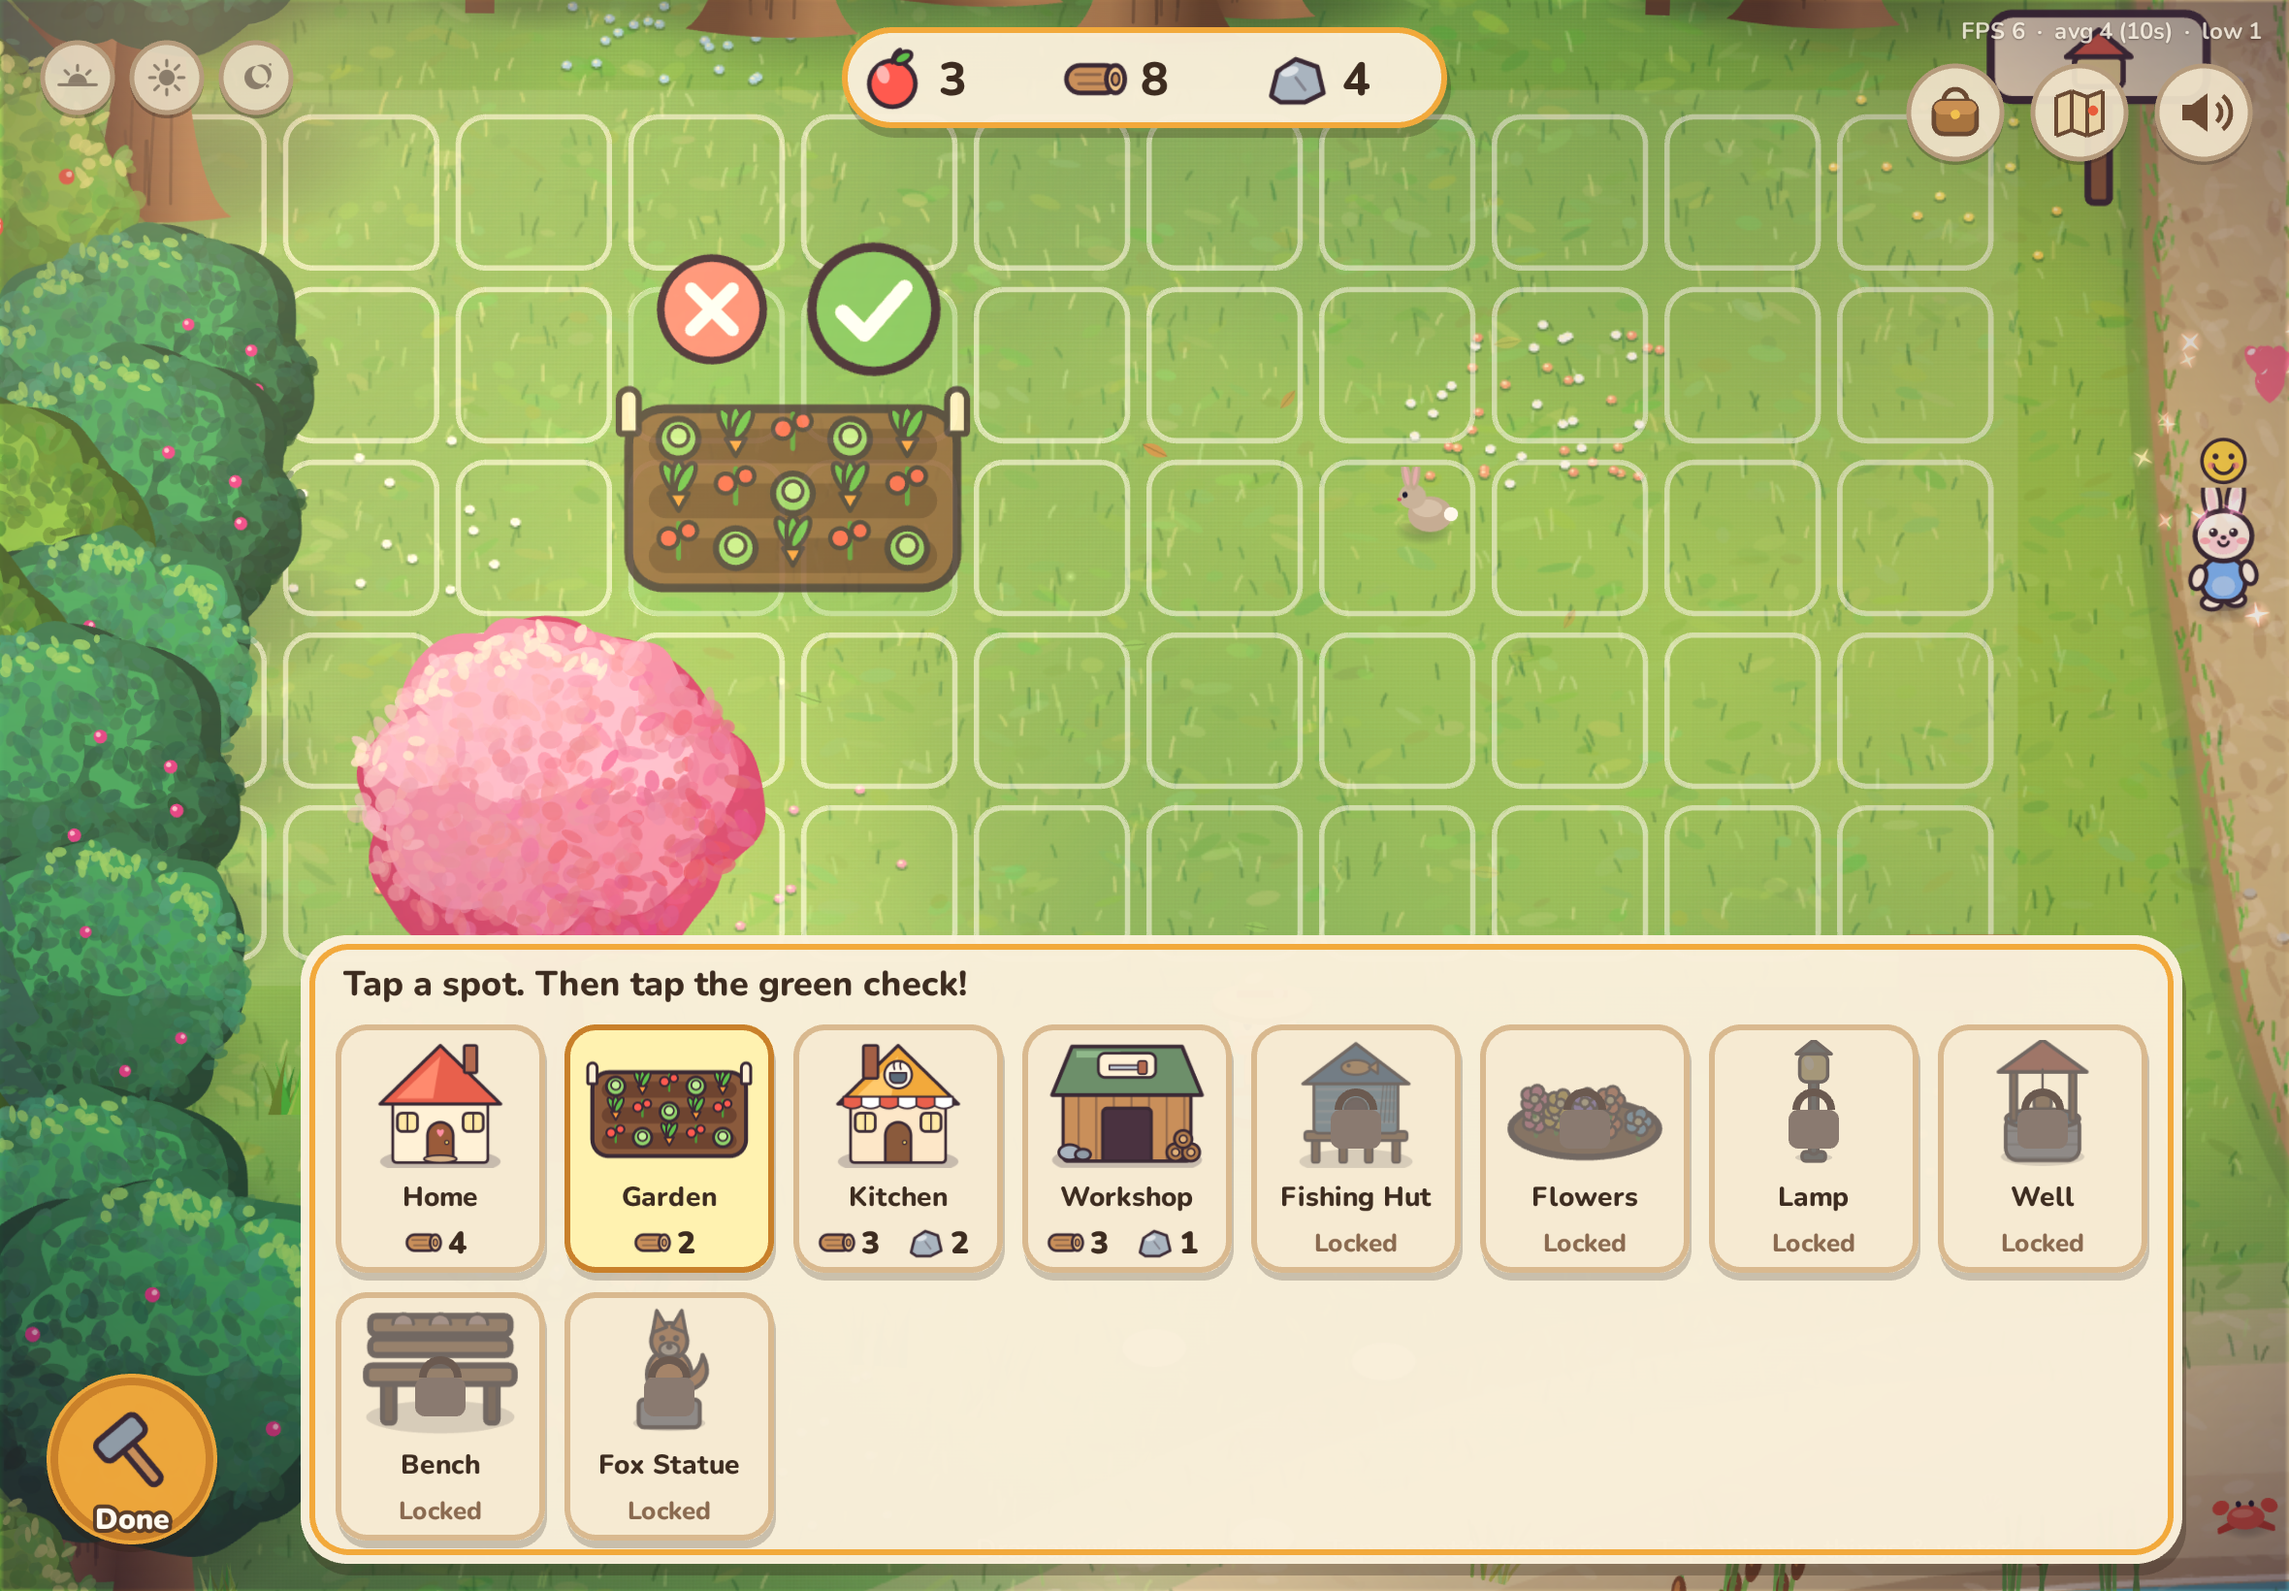
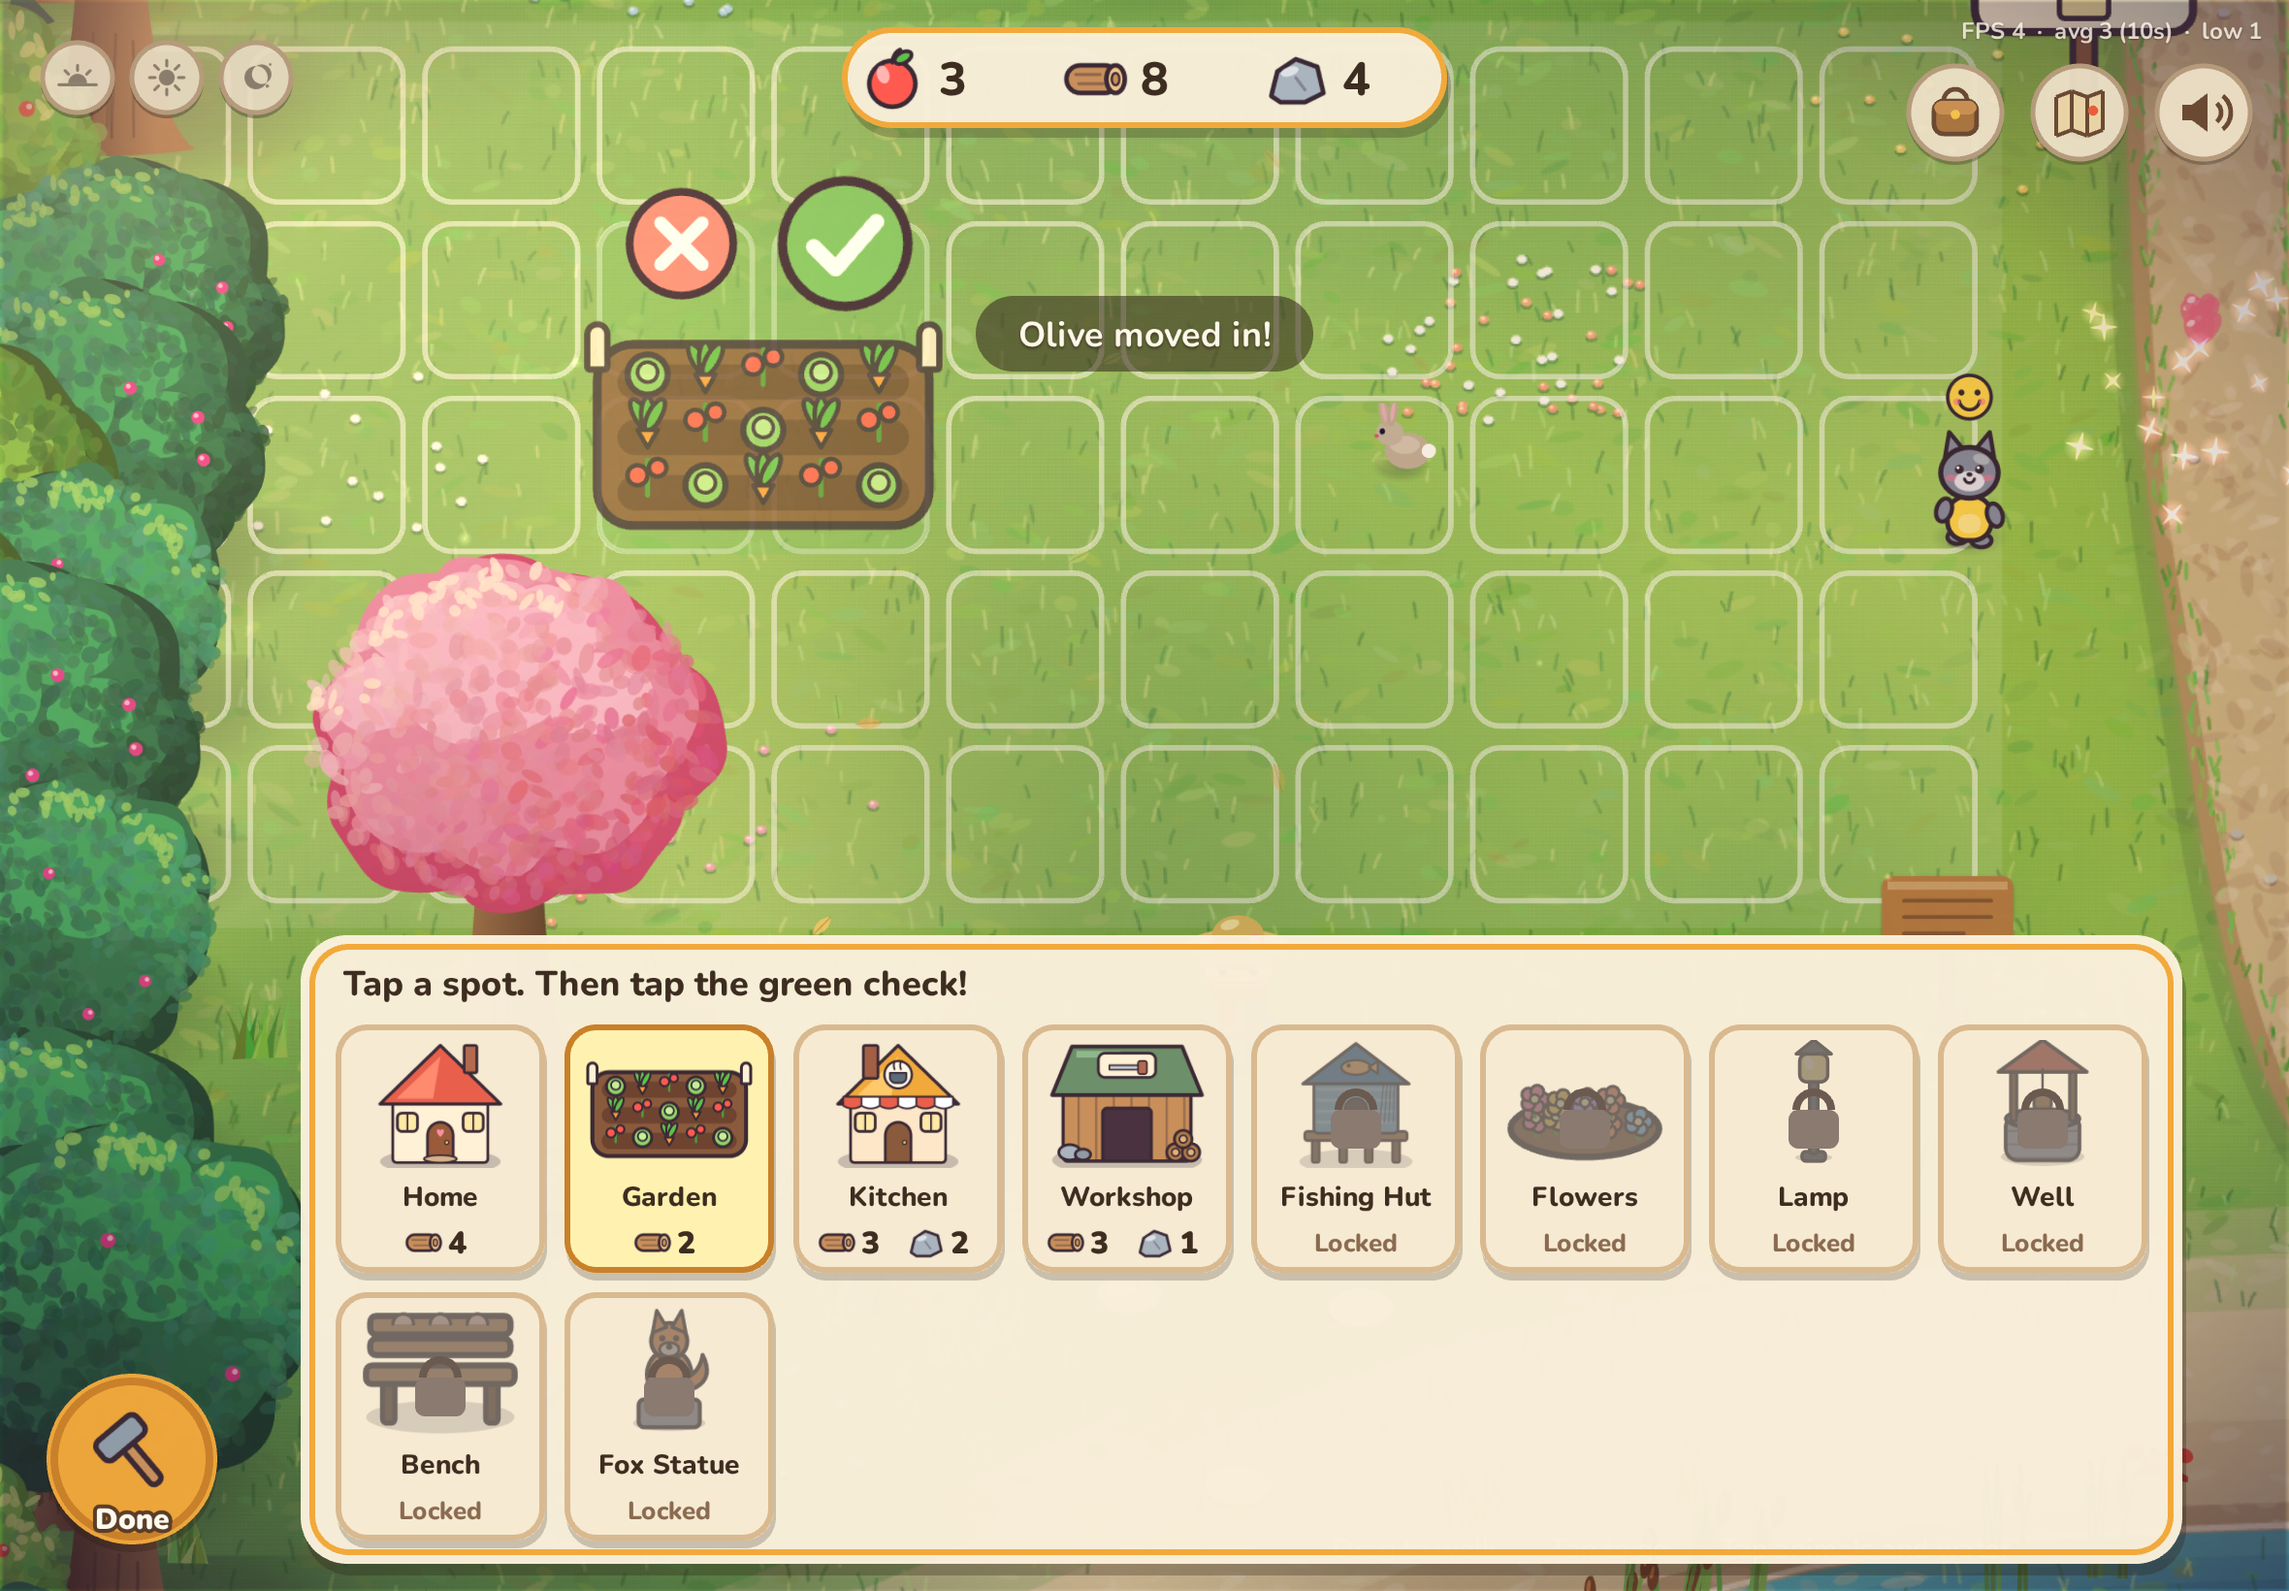
v0.5: gentler alerts (only when friends can't help themselves); test covers bubbles, undo, alerts, fruit + feeding; README

diff --git a/tests/village.spec.ts b/tests/village.spec.ts
@@ -87,8 +87,21 @@ test('village: invite, build, assign a job, resources, theme toggle', async ({ p
   await expect.poll(async () => (await village(page)).building, { timeout: 30_000 }).toBe(false);
   await page.waitForTimeout(2500);
 
-  // 3. Drag the villager onto the garden to make them the gardener.
   const garden = (await village(page)).buildings.find((b: any) => b.type === 'garden');
+  // 2b. An idle friend gets a job bubble. One tap takes the job; Undo puts it back.
+  await expect.poll(async () => (await village(page)).villagers[0].bubble, { timeout: 120_000, intervals: [500] }).toBeTruthy();
+  for (let i = 0; i < 5 && (await village(page)).villagers[0].job === null; i++) {
+    const b = (await village(page)).villagers[0].bubble;
+    if (!b) break;
+    await tapWorld(page, b[0], b[1]);
+    await page.waitForTimeout(1200);
+  }
+  await expect.poll(async () => (await village(page)).villagers[0].job, { timeout: 30_000 }).toBe(garden.id);
+  await tapRect(page, await waitRect(page, 'undo'));
+  await expect.poll(async () => (await village(page)).villagers[0].job, { timeout: 30_000 }).toBe(null);
+  await page.waitForTimeout(800);
+
+  // 3. Drag the villager onto the garden to make them the gardener.
   for (let attempt = 0; attempt < 4 && (await village(page)).villagers[0].job === null; attempt++) {
     const v = (await village(page)).villagers[0];
     const from = await toScreen(page, v.x, v.y);
@@ -115,6 +128,46 @@ test('village: invite, build, assign a job, resources, theme toggle', async ({ p
   await tapRect(page, await vuiRect(page, 'card:close'));
   await expect.poll(() => vuiRect(page, 'card'), { timeout: 30_000 }).toBeFalsy();
   await page.waitForTimeout(800);
+
+  // 5b. A hungry friend shows an alert with a one-tap fix.
+  await cozy(page, 'villageSpeed(1)');
+  const vid = (await village(page)).villagers[0].id;
+  const foodBefore = (await village(page)).res.food;
+  await page.evaluate((id) => { (window as any).__cozy.setRes({ food: 0 }); (window as any).__cozy.setNeeds(id, { food: 0.05 }); }, vid);
+  await expect.poll(async () => (await village(page)).alert?.id ?? null, { timeout: 60_000, intervals: [400] }).toBe(`food${vid}`);
+  await tapRect(page, await waitRect(page, 'alert:fix'));
+  await expect.poll(async () => (await village(page)).villagers[0].need.food, { timeout: 30_000 }).toBeGreaterThan(0.9);
+  await page.evaluate((n) => (window as any).__cozy.setRes({ food: n }), foodBefore);
+
+  // 5c. Tap a fruit tree, pick up the fruit, then feed the cat: hearts, and it follows you.
+  const cat0 = (await cozy(page, 'critters()')).cat;
+  const trees = await page.evaluate(([x, y]) => (window as any).__cozy.fruitTrees(x, y), cat0);
+  for (let i = 0; i < trees.length * 2 && (await cozy(page, 'state')).snacks < 1; i++) {
+    const t = trees[i % trees.length];
+    await page.evaluate(([x, y]) => (window as any).__cozy.teleport(x + 70, y + 50), [t[0], t[2]]);
+    await page.waitForTimeout(1500);
+    await tapWorld(page, t[0], t[1]);
+    await expect.poll(async () => (await cozy(page, 'pickups()')).filter((p: any) => p[2] === 'apple').length, { timeout: 8_000, intervals: [300] }).toBeGreaterThan(0).catch(() => {});
+    await page.waitForTimeout(900);
+    const ps = (await cozy(page, 'pickups()')).filter((p: any) => p[2] === 'apple');
+    for (const p of ps) { await tapWorld(page, p[0], p[1] - 4); await page.waitForTimeout(700); }
+    await page.waitForTimeout(1200);
+  }
+  expect((await cozy(page, 'state')).snacks).toBeGreaterThan(0);
+  await waitRect(page, 'snacks');
+  await page.evaluate(([x, y]) => (window as any).__cozy.teleport(x - 110, y + 60), cat0);
+  await page.waitForTimeout(1800);
+  const fed0 = (await cozy(page, 'state')).fed;
+  for (let i = 0; i < 4 && (await cozy(page, 'state')).fed === fed0; i++) {
+    const c = (await cozy(page, 'critters()')).cat;
+    await tapWorld(page, c[0], c[1]);
+    await page.waitForTimeout(1500);
+  }
+  await expect.poll(async () => (await cozy(page, 'state')).fed, { timeout: 30_000 }).toBeGreaterThan(fed0);
+  await page.screenshot({ path: `${SHOTS}/hd-ipad-v5-05-feeding.png` });
+  await expect.poll(async () => (await cozy(page, 'state')).followers, { timeout: 20_000 }).toBeGreaterThan(0);
+  await page.evaluate(() => (window as any).__cozy.teleport(560, 1975));
+  await page.waitForTimeout(2500);
 
   // 6. Theme toggle from the satchel: Halloween, then back to Classic.
   const bag = await page.evaluate(() => { const u = (window as any).__game.scene.getScene('ui'); return { x: u.bagC.x, y: u.bagC.y }; });

diff --git a/src/village/village.ts b/src/village/village.ts
@@ -496,10 +496,11 @@ export class Village {
     // 2. A friend who really needs something right now.
     for (const v of this.villagers) {
       const d = v.data;
-      if (['eat', 'sleep', 'play', 'drag'].includes(v.task) || (v.task === 'walk' && v.next !== 'work' && v.next !== 'idle')) continue;
-      if (d.food < 0.18) return { id: `food${d.id}`, icon: 'i_food', text: `${d.name} is hungry!`, fix: 'Snack', fixIcon: 'i_food', urgent: true, run: () => this.care(v, 'food') };
-      if (d.sleep < 0.18) return { id: `sleep${d.id}`, icon: 'i_sleep', text: `${d.name} is sleepy!`, fix: 'Nap', fixIcon: 'i_sleep', urgent: true, run: () => this.care(v, 'sleep') };
-      if (d.fun < 0.18) return { id: `fun${d.id}`, icon: 'i_fun', text: `${d.name} is bored!`, fix: 'Play', fixIcon: 'i_fun', urgent: true, run: () => this.care(v, 'fun') };
+      if (v.task === 'drag' || v.task === 'eat' || v.task === 'sleep' || v.task === 'play') continue;
+      // Friends look after themselves; only call for help when they can't (no food left) or it takes too long.
+      if (d.food < 0.25 && res.food <= 0) return { id: `food${d.id}`, icon: 'i_food', text: `${d.name} is hungry!`, fix: 'Snack', fixIcon: 'i_food', urgent: true, run: () => this.care(v, 'food') };
+      if (d.sleep < 0.1) return { id: `sleep${d.id}`, icon: 'i_sleep', text: `${d.name} is sleepy!`, fix: 'Nap', fixIcon: 'i_sleep', urgent: true, run: () => this.care(v, 'sleep') };
+      if (d.fun < 0.1) return { id: `fun${d.id}`, icon: 'i_fun', text: `${d.name} is bored!`, fix: 'Play', fixIcon: 'i_fun', urgent: true, run: () => this.care(v, 'fun') };
     }
     // 3. Out of things to build with and nothing makes more: friends bring a gift.
     const cheapest = Math.min(...BUILD_ORDER.filter(isUnlockedB).map((t) => BUILD[t].cost.wood ?? 0).filter((n) => n > 0));
@@ -540,7 +541,8 @@ export class Village {
       d.fun = this.festival > 0 ? 1 : Math.max(0, d.fun - dt / 180);
     }
     let moving = false;
-    v.idleT = v.task === 'idle' || v.task === 'wander' ? v.idleT + dt : Math.min(v.idleT, 0);
+    const free = v.task === 'idle' || v.task === 'wander' || (v.task === 'walk' && v.next === 'idle');
+    v.idleT = free ? v.idleT + dt : Math.min(v.idleT, 0);
     if (v.task === 'walk') {
       v.walkT += dt;
       // Never stuck: if a walk takes far too long, hop straight to the end.

diff --git a/src/scenes/World.ts b/src/scenes/World.ts
@@ -1226,6 +1226,7 @@ export class WorldScene extends Phaser.Scene {
         };
       },
       villageSpeed: (n: number) => { self.village.speed = n; },
+      setRes: (r: { food?: number; wood?: number; stone?: number }) => { Object.assign(save.village.res, r); self.game.events.emit('res', null, 0); },
       setNeeds: (id: number, n: { food?: number; sleep?: number; fun?: number }) => { const q = self.village.villagers.find((x) => x.data.id === id); if (q) Object.assign(q.data, n); },
       setTheme: (id: 'classic' | 'halloween') => setTheme(id),
       villageEvent: (e: 'merchant' | 'rain' | 'festival') => self.village.start(e),

diff --git a/README.md b/README.md
@@ -165,3 +165,33 @@ canopy fades so you can still see the hero.
 Tests: `tests/world.spec.ts` runs on an iPad 1180x820 @2x with touch. It walks between areas, solves
 the pots, equips the crown, catches a fish, taps six creatures and checks the console. Screenshots go
 to `screenshots/hd-ipad-v4-*.png`.
+
+## Willow Village (v0.5)
+The glade grows into a little village you build and run. Rules for a young audience: simple taps,
+short sentences, big icons, few numbers, no combat and no fail states.
+
+- **Themes:** the satchel has a live Classic / Halloween (spooky-cute) toggle. It is saved, and
+  the ground, trees, sky, fog, particles, critters, props, UI accents and music all follow it.
+  New themes are one entry in `src/theme.ts` (`THEMES` + `THEME_ORDER`).
+- **Friends:** visitors wander in. Tap one, then tap Invite. Each has a name, one cute trait and a
+  mood face (food, sleep, fun). Tap a friend for their tiny card.
+- **Build:** tap the hammer. Pick Home, Garden, Kitchen, Workshop or Fishing Hut (plus decorations),
+  tap a spot on the snap grid, then tap the green check. Costs are small (wood / stone).
+- **Jobs:** drag a friend onto a building. Gardeners and cooks make food, builders make wood and
+  stone, fishers catch fish. The resource bar shows food, wood and stone.
+- **Links to exploring:** fish you catch add food; treasures unlock decorations; the first fish
+  unlocks the Fishing Hut. Trees and rocks sometimes give wood and stone.
+- **Events:** a merchant (simple trades), rainy days (gardens grow faster) and festivals (everyone dances).
+- **Fruit and feeding:** tap a fruit tree and fruit drops. Pick it up and it goes in your basket
+  (shown next to the bar). Tap an animal while you have fruit to feed it: hearts, and it follows
+  you for a bit (cat, rabbits, squirrels, hedgehogs, deer; ducks, frog, crabs and the owl say thanks).
+- **Helpers (from Gamer's RimWorld notes):** an idle friend shows a bubble with a job that suits
+  them; one tap takes it (Undo button) or opens build mode on the right building. Alerts only
+  appear when something needs you, and each one has a one-tap fix (Snack, Nap, Play, Build, Get
+  some). Friends always recover, and if you run out of wood with no workshop, friends bring some.
+- **Save:** `localStorage` key `cozy.save.v2`; v1 saves are migrated (exploration progress kept,
+  village starts fresh).
+
+Test: `npx playwright test -c playwright.touch.config.ts tests/village.spec.ts` (iPad viewport,
+touch) invites a friend, builds, takes and undoes a job bubble, drags to assign, waits for food,
+fixes an alert, drops fruit and feeds the cat, toggles both themes and reloads.
